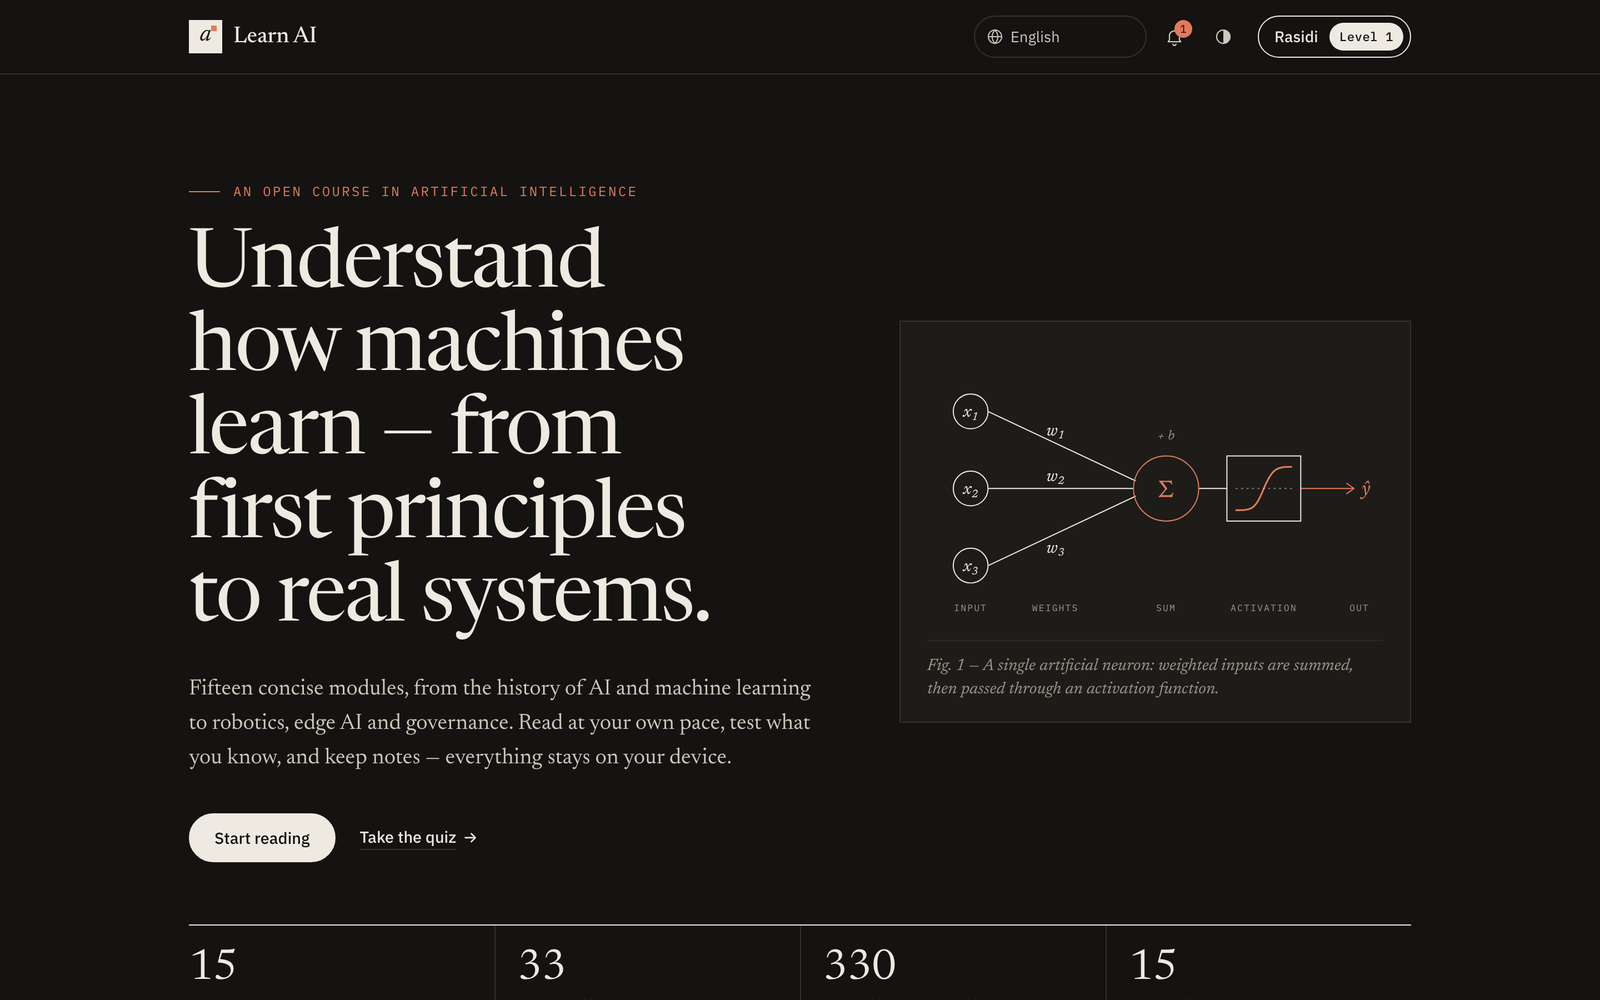
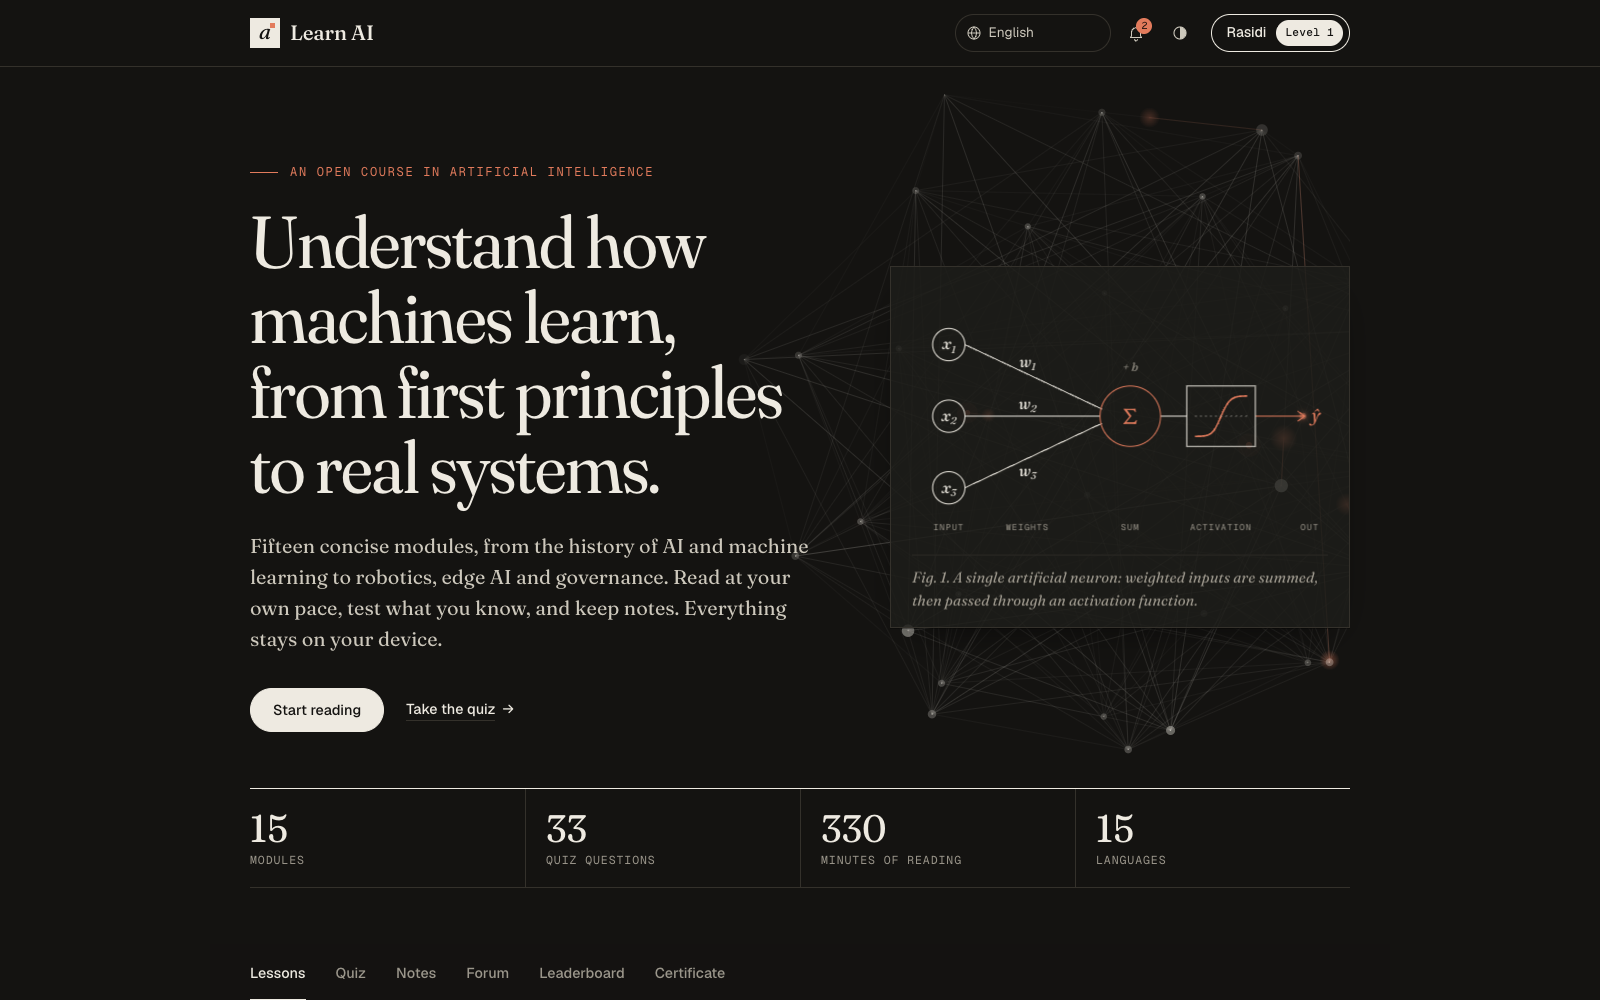
docs: refresh README screenshots for the new type and 3D hero
Retake all seven screenshots at the same sizes (1600x1000 desktop,
780x1688 mobile) so they show Fraunces, Geist and Geist Mono, the 3D
neural network behind Fig. 1 and the punctuation without em dashes.
Update the hero and quiz alt text to match.

diff --git a/README.md b/README.md
@@ -17,7 +17,7 @@ No sign-up, no tracking, no build step. Open the link and start reading.
 
 <br>
 
-<img src="docs/screenshots/hero-light.png" alt="Learn AI home page: the headline 'Understand how machines learn, from first principles to real systems' next to a diagram of a single artificial neuron" width="100%">
+<img src="docs/screenshots/hero-light.png" alt="Learn AI home page: the headline 'Understand how machines learn, from first principles to real systems' next to a diagram of a single artificial neuron, set over a rotating 3D neural network" width="100%">
 
 </div>
 
@@ -51,7 +51,7 @@ It is written for students, career switchers, teachers and anyone who wants to s
 <td width="50%"><img src="docs/screenshots/contents.png" alt="Learning dashboard with progress stats above a numbered list of modules"></td>
 </tr>
 <tr>
-<td><img src="docs/screenshots/quiz.png" alt="Quiz question about LLM sampling temperature with four lettered options"></td>
+<td><img src="docs/screenshots/quiz.png" alt="Quiz question about why accuracy misleads on a fraud dataset with few positive cases, with four lettered options"></td>
 <td><img src="docs/screenshots/hero-dark.png" alt="The home page in dark mode"></td>
 </tr>
 </table>
